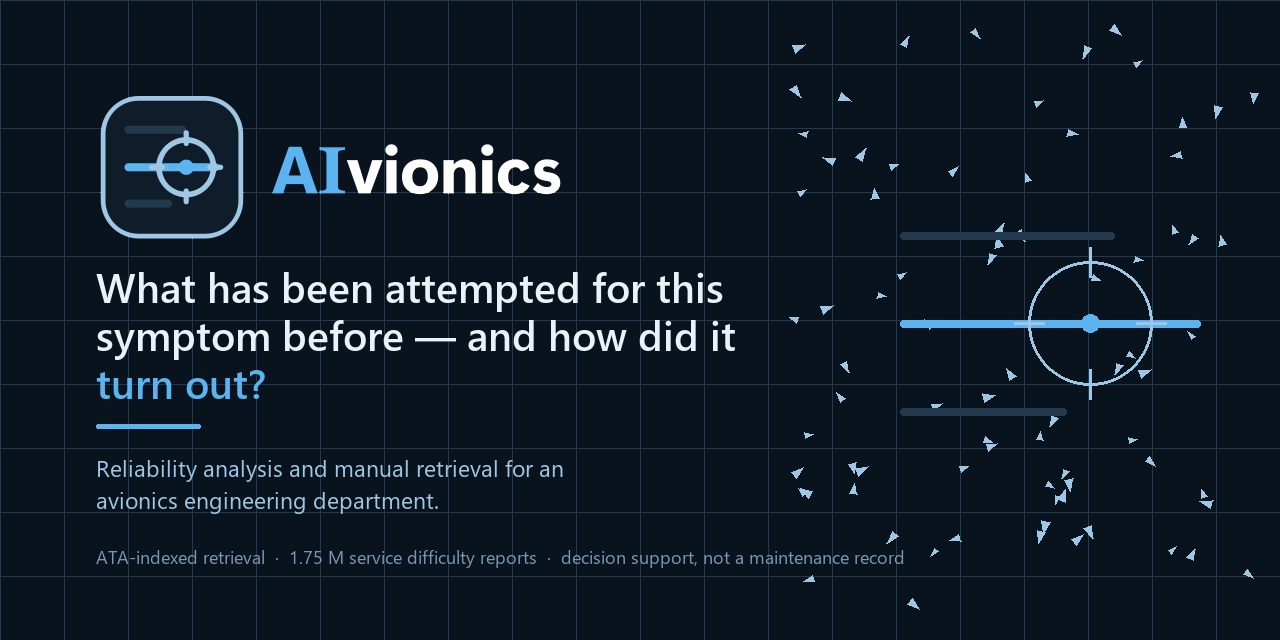
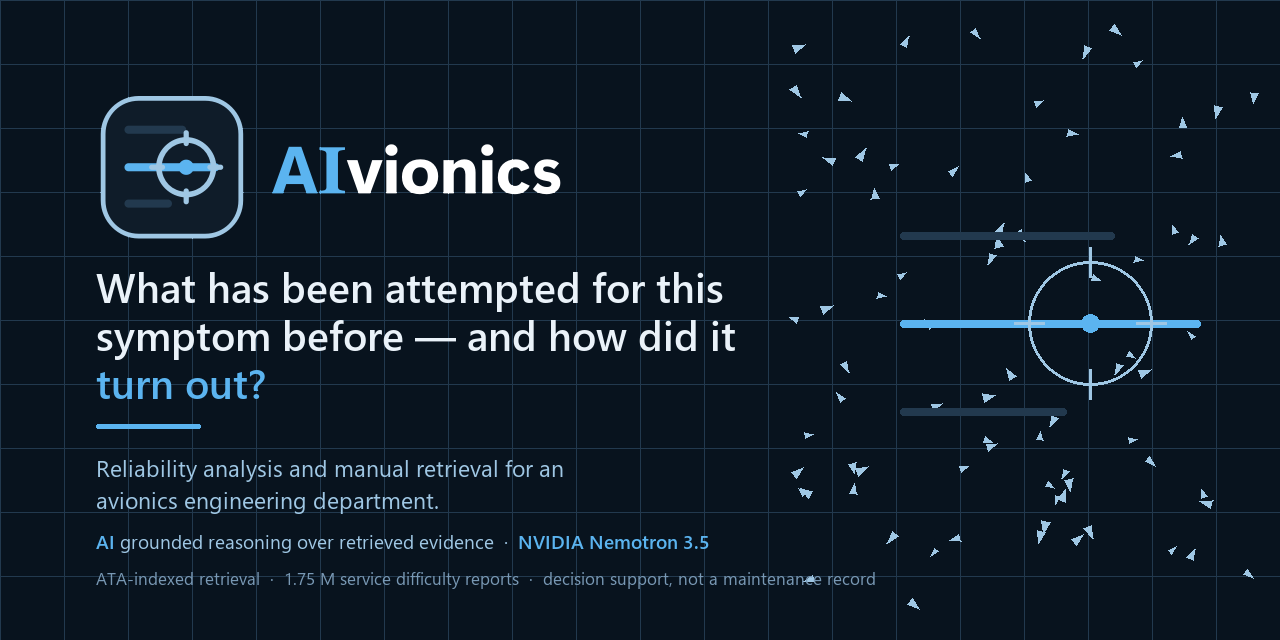
docs: rewrite the README around capability, the AI, and authorship
The previous version led with limitations and then listed features in six
bullets. It never said which model was wired, what that model is asked to do,
or who built this.

Now:

* **What it can do** — one section per capability, with the screenshots that
  were already in the repository but unreferenced. Twelve of fourteen are now
  used; the adjudication queue and the training-manual classifier appear for
  the first time.

* **How the AI works** — the full identifier
  nvidia/nemotron-3.5-lightning-30b-a3b served through NVIDIA NIM, its four
  missions and their JSON contract, and why recommended_pages is deliberately
  forced empty. The retrieval stack is described as what it is: the ranking
  that matters happens before any model is called and works without one.
  The pitot-heater example is kept, because "ATA 31 looks exactly like a
  correct answer" is the whole argument for grounding.

* **About** — authorship, and the systems used during development, with
  NVIDIA NIM named as the inference platform and Nemotron marked as the only
  one wired into the product.

The status table stays at the top. Leading with the failed gate is the most
credible thing this repository does.

Changed region(s): [[0.0625, 0.8125, 0.6875, 0.9375]]

diff --git a/README.md b/README.md
@@ -2,16 +2,32 @@
   <img src="docs/banner.png" alt="AIvionics — reliability analysis and manual retrieval for an avionics engineering department" width="100%">
 </p>
 
-# AIvionics
+<p align="center">
+  <strong>An intelligent avionics engineering workstation.</strong><br>
+  Local-first. Indexes <em>into</em> controlled maintenance data without reproducing it.
+</p>
 
-**A reliability-analysis and manual-retrieval tool for an avionics engineering
-department.** It indexes *into* controlled maintenance manuals; it does not
-reproduce them. It answers one question:
+<p align="center">
+  <img alt="tests" src="https://img.shields.io/badge/tests-902%20passing-2ea44f">
+  <img alt="python" src="https://img.shields.io/badge/python-3.11%2B-3776AB">
+  <img alt="qt" src="https://img.shields.io/badge/UI-PySide6-41CD52">
+  <img alt="model" src="https://img.shields.io/badge/LLM-NVIDIA%20Nemotron%203.5-76B900">
+  <img alt="licence" src="https://img.shields.io/badge/licence-MIT-blue">
+</p>
 
-> *"What has been attempted for this symptom before, and how did it turn out?"*
+---
 
-Decision support. Not part of the maintenance record, and not an autonomous
-maintenance authority.
+AIvionics helps an engineer investigate an aircraft defect: find what has been
+attempted for this symptom before, see how it turned out, locate the applicable
+ATA documentation, and check whether it even applies to the airframe in front of
+them.
+
+It answers one question:
+
+> *"What has been attempted for this symptom before — and how did it turn out?"*
+
+It is **decision support**. It is not part of the maintenance record, and it is
+not an autonomous maintenance authority.
 
 ---
 
@@ -41,43 +57,199 @@ removals where NFF concentrates.
 
 ---
 
-## Screenshots
+## What it can do
 
-All rendered from the demo database — real aircraft, real defect history, no
-mock data. Regenerate with `python scripts/github_screenshots.py`, which refuses to
-shoot a rendered manual page.
+### Diagnose — symptom to ranked locators
+
+Free text in. Ranked task **locators** out — task number, title, manual,
+revision, effectivity — alongside prior cases drawn from **1.75 M** FAA service
+difficulty reports. Never procedure text.
+
+![Diagnose](docs/screenshots/02-diagnose.png)
+
+### Manuals — an ATA index, not a document dump
+
+The full ATA chapter tree with per-chapter extraction coverage, revision
+control, and an in-app PDF viewer with continuous scrolling and page printing.
+Documents are classified, so a **type-training manual is labelled as one** and
+never mistaken for approved maintenance data.
+
+| ATA tree and coverage | Training-manual classification |
+|---|---|
+| ![Manuals](docs/screenshots/03-manuals-ata-tree.png) | ![Training](docs/screenshots/04-manuals-training-document.png) |
+
+### Fleet, Reliability, Compliance
+
+Per-tail defect history; repeat-defect proxy statistics; imported compliance
+clocks — open checkups, MEL deferrals, AD/SB items — each carrying its
+provenance and source system.
+
+| Fleet | Reliability |
+|---|---|
+| ![Fleet](docs/screenshots/05-fleet.png) | ![Reliability](docs/screenshots/06-reliability.png) |
+
+![Compliance](docs/screenshots/07-compliance.png)
+
+### Ops — live situational awareness
+
+Pan-and-zoom fleet map with live ADS-B traffic from adsb.lol, a precipitation
+radar composite, and an airport page carrying runways, frequencies, METAR/TAF
+and photographs. Bundled airport data works offline; live layers are isolated
+behind one auditable setting.
+
+![Ops](docs/screenshots/08-ops.png)
+
+### AI Validation — the adjudication queue
+
+A 400-case gold set with a full review lifecycle: draft and final states,
+append-only revision history, a hash-chained audit trail, freezing, and a
+professional 50-case overlap for inter-rater agreement.
+
+| Dashboard | One case |
+|---|---|
+| ![Validation](docs/screenshots/09-ai-validation-dashboard.png) | ![Case](docs/screenshots/10-ai-validation-case.png) |
+
+### And underneath
+
+Login with two roles, a hash-chained audit log, notes anchored to a tail,
+defect, task or case — never free-floating — and light and dark themes
+throughout.
+
+![Home dark](docs/screenshots/13-home-dark.png)
+
+**Runs on a 16 GB office PC, installs per user, and works with the network
+unplugged.** The manuals core, retrieval, case base and statistics are all local.
+
+---
+
+## How the AI works
+
+### Which model is wired
 
 | | |
 |---|---|
-| **Diagnose** — symptom to ranked task locators | **Reliability** — removal→repeat rates by ATA chapter |
-| ![Diagnose](docs/screenshots/02-diagnose.png) | ![Reliability](docs/screenshots/06-reliability.png) |
-| **Manuals** — ATA tree, revision control, in-app PDF | **Fleet** — the register, with per-tail defect counts |
-| ![Manuals](docs/screenshots/03-manuals-ata-tree.png) | ![Fleet](docs/screenshots/05-fleet.png) |
-| **Ops** — pan/zoom map, live ADS-B, radar overlay | **Home**, dark |
-| ![Ops](docs/screenshots/08-ops.png) | ![Home dark](docs/screenshots/13-home-dark.png) |
+| **Default model** | `nvidia/nemotron-3.5-lightning-30b-a3b` — *NVIDIA Nemotron 3.5 Lightning* |
+| **Endpoint** | NVIDIA NIM, `https://integrate.api.nvidia.com/v1` (OpenAI-compatible) |
+| **Alternative** | Any local Ollama model — defaults to `gemma3:4b` at `http://127.0.0.1:11434` |
+| **Credential** | Windows Credential Manager, service `AIvionics/NVIDIA-NIM` |
 
-![Home](docs/screenshots/01-home.png)
+The API key is **never** written to the database, to source, to configuration
+files, to logs, to audit details or to error messages, and it is never
+displayed again once saved.
 
-## What it does today
+### What Nemotron is asked to do
 
-- **Diagnose** — free-text symptom → ranked task *locators* from the AMM and the
-  FIM catalogue, with prior cases from 1.75 M service difficulty reports
-- **Manuals** — ATA tree, revision control, in-app PDF viewer, coverage per chapter
-- **Fleet / Reliability / Compliance** — per-tail defect history, repeat-defect
-  proxy statistics, imported compliance clocks with provenance
-- **Ops** — pan-and-zoom fleet map with live ADS-B, precipitation radar overlay,
-  airport page with runways, frequencies, METAR/TAF and photographs
-- **Notes** — anchored to a tail, defect, task or case; never free-floating
-- **Login, two roles, hash-chained audit log**
+Full identifier: **`nvidia/nemotron-3.5-lightning-30b-a3b`**, served through
+**NVIDIA NIM**. It has four missions, and each returns a strict JSON contract
+that is validated before anything reaches the screen.
 
-Runs on a 16 GB office PC, installs per user, and **works with the network
-unplugged** — the manuals core, retrieval, case base and statistics are all local.
+**1 · Extract the complaint.** Turn an engineer's free-text symptom into
+structure: a normalised symptom, candidate ATA chapters, candidate systems,
+fault codes, phase of flight, environmental factors — and, importantly, the
+`missing_information` the engineer did not supply.
+
+**2 · Propose cause candidates.** Ranked hypotheses (1–10), each carrying an
+`evidence_level`, the case ids that **support** it and the case ids that
+**contradict** it, plus its own limitations and provenance. Contradicting
+evidence is a first-class field, not an afterthought.
+
+**3 · Recommend documents.** Manual type, task number, title, revision,
+effectivity result and authorization state — task **locators**, never task
+bodies.
+
+**4 · Abstain.** When the evidence supports no hypothesis, say so and give a
+reason. An abstention is a correct answer, not a failure.
+
+`evidence_level` is one of exactly four values — **strong**, **limited**,
+**conflicting**, **insufficient**. It is a category. A model that writes "87%
+confident" has broken the contract and is rejected, because a percentage
+implies a calibration this system has not earned.
+
+A fifth mission is deliberately disabled: `recommended_pages` must be returned
+empty. **No page index exists, so no page may be cited** — rather than let the
+model guess at page numbers that would look authoritative and be wrong.
+
+### Retrieval is not the model
+
+The ranking that matters happens before any model is called, and works without
+one:
+
+- **Lexical** — BM25 over SQLite FTS5, with column weights so an exact task-number
+  hit outranks a title-word hit
+- **Dense** — cosine over `BAAI/bge-small-en-v1.5` (384-dim), embedding the ATA
+  hierarchy plus task title rather than the task body, following Jo (2025) —
+  which sidesteps the truncation problem entirely
+- **Adaptive fusion** — a query containing an exact token weights lexical
+  `0.60` / dense `0.40`; free-text symptom prose flips to `0.15` / `0.85`,
+  because SDR narratives are typo-dense by nature
+
+A cross-encoder reranker (`ms-marco-MiniLM-L-12-v2`) was evaluated and
+**rejected** — it halved every top-of-list metric. That finding is in the repo
+rather than quietly dropped.
+
+### The model reasons over evidence — it never supplies its own
+
+The model is **not** asked *"which task applies?"* It is handed what retrieval
+found and asked to reason over *those*.
+
+This is not a stylistic preference. Asked where a pitot probe heater
+fault-isolation task lives, Nemotron answered **ATA 31**. The corpus puts it at
+`30-31-00-810-801`, in **ATA 30**. A model permitted to supply its own task
+numbers will eventually supply that one — and it looks exactly like a correct
+answer.
+
+So the same rule is enforced twice: `ALLOWED TASK NUMBERS` in the prompt, and
+`check_grounding` on the way back. One is a request; the other is a gate.
+
+The system prompt binds ten rules. Among them:
+
+> Every `task_number` you write must be copied character for character from
+> ALLOWED TASK NUMBERS. A task number that is not in that list is a fabrication
+> even if it looks correct, and it will be rejected.
+
+> These are hypotheses, not causes. The case base records what an engineer
+> **did**, never whether it was correct.
+
+> If the evidence supports no hypothesis, set `abstained` to true. **An
+> abstention is a correct answer.**
+
+Also enforced: `evidence_level` is a category, never a percentage or confidence
+score; no numeral may be stated that does not appear in the evidence; and
+unresolved effectivity forces a fixed warning sentence into the output.
+
+### Four structural guarantees
+
+1. **A rejected answer is not a repaired answer.** When grounding fails, the
+   `Investigation` carries the violations and `answer` stays `None` — there is
+   no field a panel could render by accident.
+2. **Model-unavailable is an ordinary state**, a value of `state` rather than an
+   exception. The deterministic ranked-locator screen is complete without a
+   model and stays that way.
+3. **Every tool is read-only.** All **13** are declared `read`; no write tool
+   exists. Permissions are read off the same `ROLES` table login uses, and an
+   unknown role yields *nothing* rather than everything.
+4. **Nothing runs on the UI thread.** Investigations use `QRunnable` + signals,
+   and every stage checks a `CancelToken`, so a cancelled investigation stops
+   between tool calls rather than after the model has finished thinking.
+
+### What the model may read
+
+Thirteen tools, all read-only: manual-task locator search, similar-case search,
+case evidence, aircraft history, open defects, repeat defects, manual metadata,
+effectivity check, page metadata, document authorization, compliance context,
+and — isolated behind the online setting — live aircraft position and airport
+movements.
+
+`check_effectivity` **fails closed**: anything not positively applicable is
+reported as unresolved.
+
+![Admin AI](docs/screenshots/12-admin-ai-assistant.png)
 
 ---
 
 ## The rules it holds itself to
 
-These are enforced in code and in tests, not just documented.
+Enforced in code and in tests, not just documented.
 
 1. **Never render or print a task body outside the app.** Printing emits a
    locator only — task number, title, manual, revision, effectivity, tail,
@@ -103,6 +275,8 @@ pip install -e .
 python -m aivionics.ui
 ```
 
+Or double-click **`Start AIvionics.bat`**.
+
 The application ships with no corpus. To see it populated, build the demo
 database — it registers twelve **real** aircraft tails that already carry
 reported defects in the public FAA SDR data:
@@ -117,9 +291,50 @@ would normally hold — MSN, line number, hours, cycles — are left blank, beca
 SDR does not publish them and inventing them would undermine the point.
 
 ```bash
-python -m pytest -q          # the test suite
-python scripts/ui_preview.py # render every screen to docs/status/
+python -m pytest -q                     # 902 passing
+python scripts/github_screenshots.py    # regenerate docs/screenshots/
 ```
+
+`github_screenshots.py` refuses to shoot a rendered manual page.
+
+To wire the model: **Admin → AI assistant**, paste an NVIDIA NIM key. It goes to
+Windows Credential Manager, never to the database.
+
+---
+
+## About
+
+![About](docs/screenshots/11-about.png)
+
+**AIvionics was conceived, created and directed by Sarvan Asadli.**
+
+> **Sarvan Asadli**
+> M.Sc. Electrical Engineering & Information Technology
+> Avionics Engineer (B.Sc. Honours)
+> AI & LLM Systems
+> RDMA, GPU-to-GPU & FPGA Research
+
+### AI systems used during development
+
+These models and platforms assisted in building AIvionics:
+
+| System |
+|---|
+| **Kimi K3** |
+| **Claude Fable 5** |
+| **Claude Opus 5** |
+| **DeepSeek V4 Pro** |
+| **OpenAI Codex** |
+| **NVIDIA Nemotron** — `nvidia/nemotron-3.5-lightning-30b-a3b` |
+| **NVIDIA NIM** — inference platform, `https://integrate.api.nvidia.com/v1` |
+
+NVIDIA Nemotron is the only one of these that is *wired into the product*; it
+runs at inference time through NVIDIA NIM. The rest assisted during
+development only and are not called by the application.
+
+AIvionics is an independently created product. The use of these AI systems does
+not imply sponsorship, certification or endorsement by their developers or
+associated companies.
 
 ---
 
@@ -136,29 +351,12 @@ affiliation with any manufacturer named in the software.
 |---|---|---|
 | [OurAirports](https://github.com/davidmegginson/ourairports-data) | 85,836 airports, runways, frequencies, navaids — bundled | Public domain |
 | FAA SDR | 1.75 M service difficulty reports | US Government, public |
+| [adsb.lol](https://adsb.lol) | Live ADS-B traffic | ODbL 1.0 |
+| RainViewer | Precipitation radar composite | Free, non-commercial, attribution |
+| Wikimedia Commons | Airport and aircraft photographs | CC BY / CC BY-SA, per-file credit |
 | [timezonefinder](https://github.com/jannikmi/timezonefinder) | IANA zone from lat/lon, offline | MIT |
 | [flag-icons](https://github.com/lipis/flag-icons) | 271 country flags | MIT |
-| [adsb.lol](https://www.adsb.lol/) | Live aircraft positions — fetched, not bundled | **ODbL 1.0**, attribution + share-alike |
-| Wikimedia Commons | One photograph per airport — fetched, not bundled | Per file, credit rendered with the image |
-| RainViewer | Precipitation radar tiles — fetched, not bundled | ⚠ **Non-commercial** — see below |
 
-> **⚠ Open licensing question.** RainViewer's free tier is non-commercial. That
-> is fine for a personal build and it is **not** cleared for a commercial
-> product. Before any commercial use, either take a RainViewer plan or move the
-> layer to the US NOAA/MRMS composite, which is public domain but covers the
-> United States only.
-
-**No OEM maintenance manuals are included.** Authorization to hold and use
-AMM/FIM/WDM/CMM content varies by organization, and this repository ships none.
-
----
-
-## Built with
-
-PySide6 · SQLite + FTS5 + sqlite-vec · fastembed (BAAI/bge-small-en-v1.5) ·
-PyMuPDF · bcrypt · numpy
-
-Planning, evaluation protocol and the risk register are in
-[`docs/PLAN.md`](docs/PLAN.md). The measured retrieval status is in
-[`docs/status/gate2-report.md`](docs/status/gate2-report.md), including the
-numbers that failed.
+**No maintenance manual is included in this repository, and none may be
+redistributed with it.** Manuals are licensed to each operator separately and
+are read from the path in `AIVIONICS_CORPUS`.
